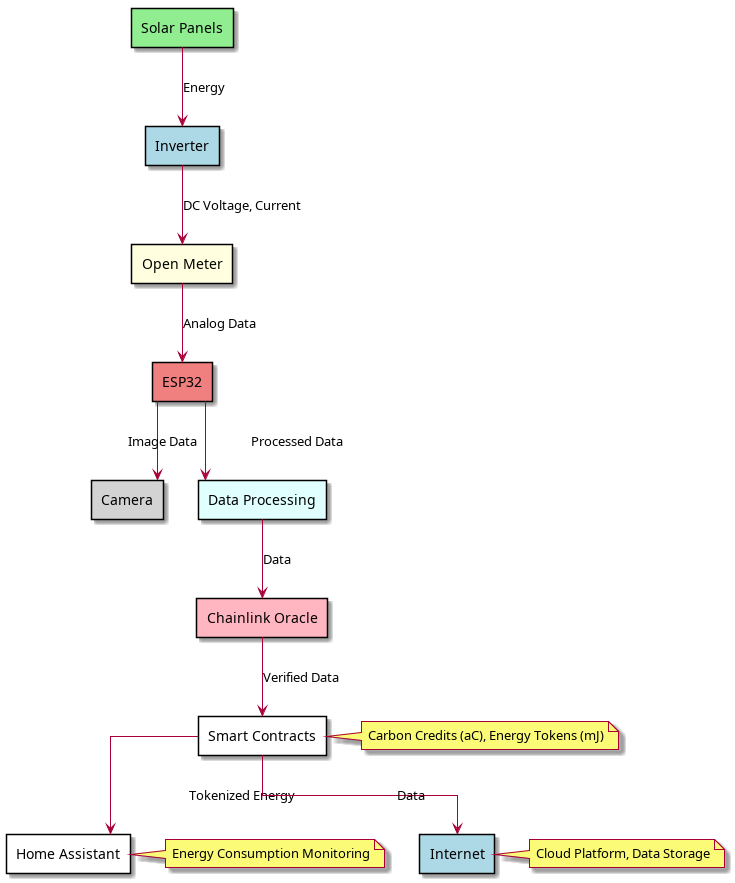
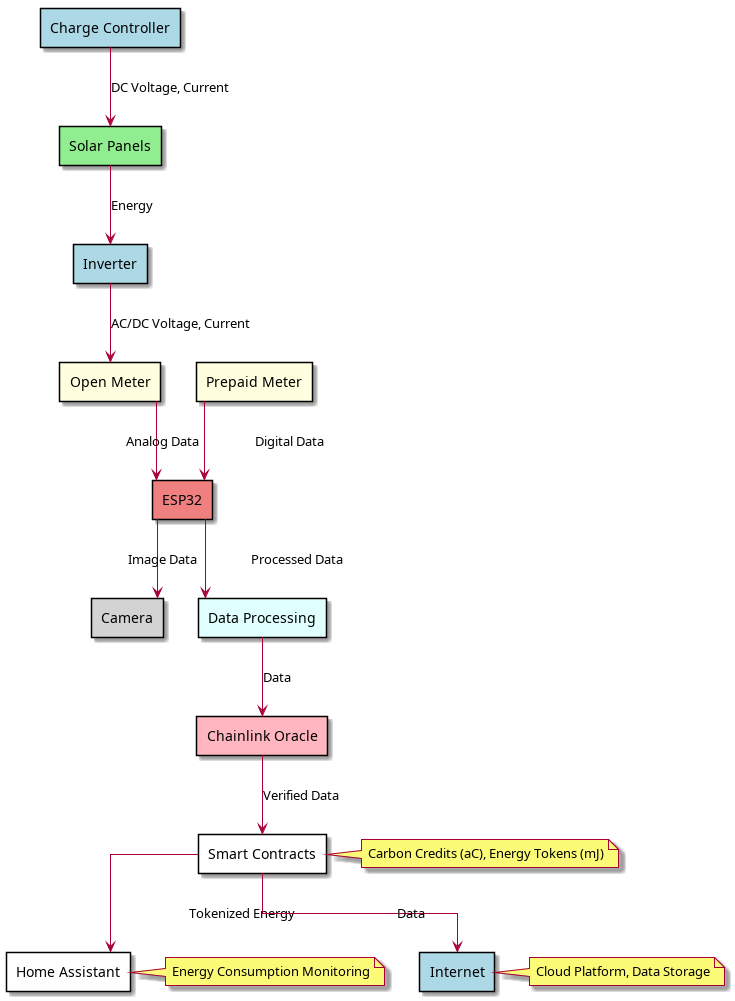
uml update

Changed region(s): [[0.0299, 0.0, 0.4789, 0.6421], [0.1497, 0.6727, 0.9878, 1.0], [0.0, 0.9173, 0.5388, 1.0]]

diff --git a/open-meter/README.md b/open-meter/README.md
@@ -18,8 +18,10 @@ skinparam defaultTextAlignment center
 skinparam linetype ortho
 
 rectangle "Solar Panels" as SolarPanels #lightgreen
+rectangle "Charge Controller" as ChargeController #lightblue
 rectangle "Inverter" as Inverter #lightblue
 rectangle "Open Meter" as OpenMeter #lightyellow
+rectangle "Prepaid Meter" as PrepaidMeter #lightyellow
 rectangle "ESP32" as ESP32 #lightcoral
 rectangle "Camera" as Camera #lightgray
 rectangle "Data Processing" as DataProcessing #lightcyan
@@ -29,8 +31,10 @@ rectangle "Home Assistant" as HomeAssistant #lightpurple
 rectangle "Internet" as Internet #lightblue
 
 SolarPanels --> Inverter : Energy
-Inverter --> OpenMeter : DC Voltage, Current
+ChargeController --> SolarPanels : DC Voltage, Current
+Inverter --> OpenMeter : AC/DC Voltage, Current
 OpenMeter --> ESP32 : Analog Data
+PrepaidMeter --> ESP32 : Digital Data
 ESP32 --> Camera : Image Data
 ESP32 --> DataProcessing : Processed Data
 DataProcessing --> ChainlinkOracle : Data
@@ -52,6 +56,7 @@ end note
 
 @enduml
 
+```
 </div>
 
 ![](circuitDiagram.png)
